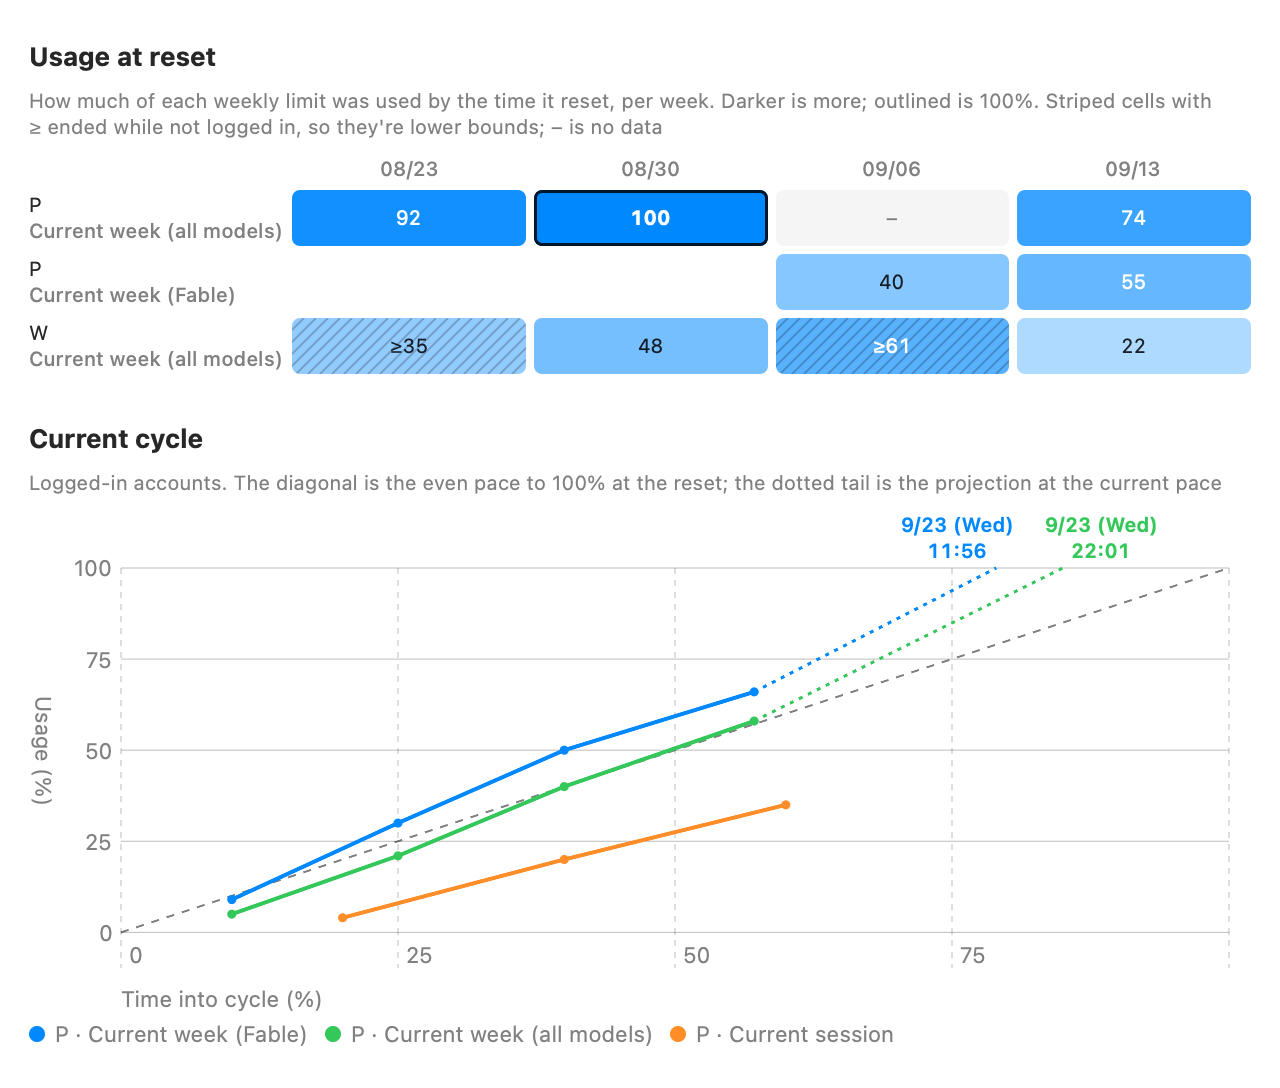
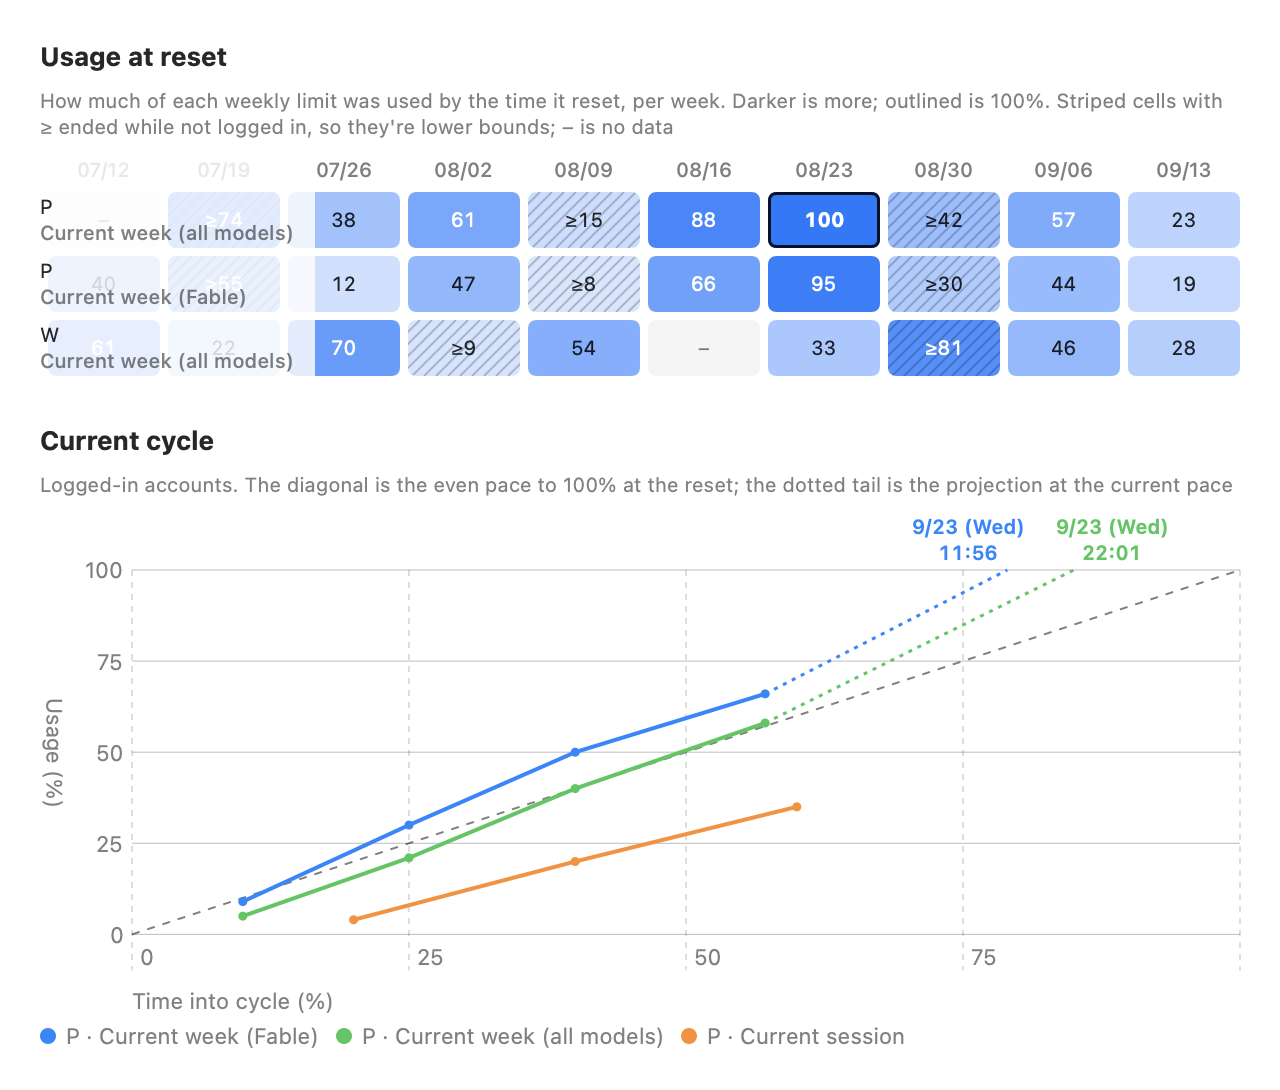
fix: Analytics のヒートマップを横スクロールにして窓幅で崩れないようにする
ヒートマップの Grid は週の列が増えると窓より広くなり、外側の VStack ごと中央寄せ
されて見出しもチャートも両端が欠けていた（5 週で最小幅 520 が、8 週で既定の 640 が
溢れる。Grid は見出し行の Text と fixedSize のラベル列があると列を約 62pt 未満に
縮めない）。

- セルを幅 56pt の固定にして ScrollView(.horizontal) に入れ、直近 8 週の上限を外す
- 行ラベルは safeAreaInset(edge: .leading) で左端に乗せ、背景はウィンドウ色の 82%。
  セルがラベルの下を透けて流れ、スクロールバーはセルの下だけに出る
- 開いたとき（と週が増えたとき）に ScrollViewReader で最新の週へ寄せる
- AnalyticsRenderTests は ImageRenderer が ScrollView の中身を描かないので
  NSHostingView のスナップショットに変更。合成データを 12 週にし、最小幅 520 でも描く
- README の Analytics 画像を作り直し、CLAUDE.md を更新

🤖 Generated with [Claude Code](https://claude.com/claude-code)

diff --git a/Sources/Quotaback/AnalyticsView.swift b/Sources/Quotaback/AnalyticsView.swift
@@ -100,44 +100,64 @@ struct AnalyticsCharts: View {
 
     // MARK: 1
 
+    /// All weeks, in fixed-width cells that scroll sideways. The row labels sit over the leading edge as a safe-area
+    /// inset, so the cells slide under them and the scroller only spans the cells. Opens at the newest week
     @ViewBuilder private var finalUsage: some View {
-        // The most recent weeks only, so that the cells keep a readable width
-        let all = AnalyticsModel.heatmap(input.cycles, now: input.now, titles: input.title)
-        let shown = Set(Set(all.map(\.week)).sorted().suffix(Self.heatmapWeeks))
-        let cells = all.filter { shown.contains($0.week) }
+        let cells = AnalyticsModel.heatmap(input.cycles, now: input.now, titles: input.title)
         if cells.isEmpty {
             empty()
         } else {
             let rows = cells.map(\.row).reduce(into: [String]()) { if !$0.contains($1) { $0.append($1) } }
             let weeks = Set(cells.map(\.week)).sorted()
             let byID = Dictionary(cells.map { ($0.id, $0) }, uniquingKeysWith: { $1 })
-            Grid(horizontalSpacing: 4, verticalSpacing: 4) {
-                GridRow {
-                    Color.clear.gridCellUnsizedAxes([.horizontal, .vertical])
-                    ForEach(weeks, id: \.self) { w in
-                        Text(Self.shortDay(w)).font(.caption2).foregroundStyle(.secondary)
-                    }
-                }
-                ForEach(rows, id: \.self) { row in
-                    GridRow {
-                        let first = cells.first { $0.row == row }
-                        VStack(alignment: .leading, spacing: 0) {
-                            Text(first?.account ?? row).font(.caption)
-                            Text(first?.window ?? "").font(.caption2).foregroundStyle(.secondary)
+            ScrollViewReader { proxy in
+                ScrollView(.horizontal) {
+                    Grid(horizontalSpacing: HeatLayout.gap, verticalSpacing: HeatLayout.gap) {
+                        GridRow {
+                            ForEach(weeks, id: \.self) { w in
+                                Text(Self.shortDay(w)).font(.caption2).foregroundStyle(.secondary)
+                                    .frame(width: HeatLayout.cellWidth, height: HeatLayout.headerHeight)
+                                    .id(w)
+                            }
                         }
-                        .lineLimit(1)
-                        .fixedSize()
-                        .gridColumnAlignment(.leading)
-                        ForEach(weeks, id: \.self) { w in
-                            HeatCellView(cell: byID["\(row) \(w.timeIntervalSince1970)"])
+                        ForEach(rows, id: \.self) { row in
+                            GridRow {
+                                ForEach(weeks, id: \.self) { w in
+                                    HeatCellView(cell: byID["\(row) \(w.timeIntervalSince1970)"])
+                                }
+                            }
                         }
                     }
                 }
+                .safeAreaInset(edge: .leading, spacing: 0) {
+                    VStack(alignment: .leading, spacing: HeatLayout.gap) {
+                        Color.clear.frame(width: 1, height: HeatLayout.headerHeight)
+                        ForEach(rows, id: \.self) { row in
+                            let first = cells.first { $0.row == row }
+                            VStack(alignment: .leading, spacing: 0) {
+                                Text(first?.account ?? row).font(.caption)
+                                Text(first?.window ?? "").font(.caption2).foregroundStyle(.secondary)
+                            }
+                            .lineLimit(1)
+                            .fixedSize()
+                            .frame(height: HeatLayout.rowHeight)
+                        }
+                    }
+                    .padding(.trailing, 10)
+                    // Translucent, so that the cells scrolled under the labels still show through
+                    .background(Color(nsColor: .windowBackgroundColor).opacity(HeatLayout.labelOpacity))
+                }
+                .onAppear { Self.scrollToNewest(proxy, weeks.last) }
+                .onChange(of: weeks.count) { _ in Self.scrollToNewest(proxy, weeks.last) }
             }
         }
     }
 
-    private static let heatmapWeeks = 8
+    private static func scrollToNewest(_ proxy: ScrollViewProxy, _ week: Date?) {
+        guard let week else { return }
+        // The layout isn't settled yet when onAppear fires, so wait a turn
+        Task { @MainActor in proxy.scrollTo(week, anchor: .trailing) }
+    }
 
     private static func shortDay(_ d: Date) -> String {
         d.formatted(Date.FormatStyle(date: .omitted, time: .omitted).month(.defaultDigits).day().locale(L10n.locale))
@@ -225,6 +245,15 @@ struct AnalyticsCharts: View {
 
 }
 
+/// The heatmap's fixed geometry. The label column and the grid share the row heights so that they line up
+private enum HeatLayout {
+    static let cellWidth: CGFloat = 56
+    static let rowHeight: CGFloat = 28
+    static let headerHeight: CGFloat = 14
+    static let gap: CGFloat = 4
+    static let labelOpacity = 0.82
+}
+
 /// One week of one window: darker for more of the limit used, outlined at 100%, striped when it's a lower bound,
 /// faint and empty when there's no data (a week before the window existed has no cell at all)
 private struct HeatCellView: View {
@@ -248,7 +277,7 @@ private struct HeatCellView: View {
                 }
             }
         }
-        .frame(maxWidth: .infinity, minHeight: 28)
+        .frame(width: HeatLayout.cellWidth, height: HeatLayout.rowHeight)
     }
 }
 

diff --git a/Tests/QuotabackTests/AnalyticsRenderTests.swift b/Tests/QuotabackTests/AnalyticsRenderTests.swift
@@ -23,14 +23,20 @@ final class AnalyticsRenderTests: XCTestCase {
                          finalPercent: v, peakPercent: v, observations: 5)
         }
         let shift: TimeInterval = 6 * hour
-        let r: [Date] = (1...4).map { reset - Double($0) * week }   // r[0] = last week, r[3] = four weeks ago
+        // Twelve closed weeks, so that the heatmap is wider than the window and scrolls. nil = never observed that week;
+        // a gap of days = ended while not logged in (a lower bound)
+        let pAll: [Double?] = [92, 100, nil, 74, 38, 61, 15, 88, 100, 42, 57, 23]
+        let wAll: [Double?] = [35, 48, 61, 22, 70, 9, 54, nil, 33, 81, 46, 28]
+        let pFable: [Double?] = [nil, nil, 40, 55, 12, 47, 8, 66, 95, 30, 44, 19]
         var cycles: [CycleSummary] = []
-        cycles += [summary(p, at: r[3], 92), summary(w, at: r[3] + shift, 35, gap: 2 * day)]
-        cycles += [summary(p, at: r[2], 100), summary(w, at: r[2] + shift, 48)]
-        // P has no summary two weeks ago
-        cycles += [summary(w, at: r[1] + shift, 61, gap: 3 * day)]
-        cycles += [summary(p, at: r[0], 74), summary(w, at: r[0] + shift, 22)]
-        cycles += [summary(p, "weekly_scoped/Fable", at: r[1], 40), summary(p, "weekly_scoped/Fable", at: r[0], 55)]
+        for i in 0..<12 {
+            let r = reset - Double(12 - i) * week   // i = 11 is last week
+            let pGap: TimeInterval = i % 3 == 0 ? 2 * day : 60
+            let wGap: TimeInterval = i % 4 == 1 ? 3 * day : 60
+            if let v = pAll[i] { cycles.append(summary(p, at: r, v, gap: pGap)) }
+            if let v = wAll[i] { cycles.append(summary(w, at: r + shift, v, gap: wGap)) }
+            if let v = pFable[i] { cycles.append(summary(p, "weekly_scoped/Fable", at: r, v, gap: pGap)) }
+        }
         let weekly = WindowObservation(key: "weekly_all", title: "Current week (all models)", percent: 58, resetsAt: reset,
                                        isLimit: true, detail: nil, cadence: .fixed(week))
         let session = WindowObservation(key: "session", title: "Current session", percent: 35, resetsAt: t0 + 2 * hour,
@@ -59,19 +65,29 @@ final class AnalyticsRenderTests: XCTestCase {
         return AnalyticsInput(cycles: cycles, titles: [p: "P", w: "W"], live: live, now: t0)
     }
 
-    func render(_ name: String, language: String?, scheme: ColorScheme) throws {
+    /// Draws through an `NSHostingView` in an offscreen window, not `ImageRenderer`: the latter leaves the
+    /// heatmap's `ScrollView` blank. `publish` false keeps the image out of `$QUOTABACK_RENDER_DIR` (not a README image)
+    func render(_ name: String, language: String?, scheme: ColorScheme, width: CGFloat = 640, publish: Bool = true) throws {
         L10n.apply(language)
         let view = AnalyticsCharts(input: sample())
-            .frame(width: 640)
-            .background(scheme == .dark ? Color.black : Color.white)
+            .frame(width: width)
+            .background(Color(nsColor: .windowBackgroundColor))
             .environment(\.colorScheme, scheme)
-        let renderer = ImageRenderer(content: view)
-        renderer.scale = 2
-        let image = try XCTUnwrap(renderer.nsImage)
-        let rep = try XCTUnwrap(image.tiffRepresentation.flatMap(NSBitmapImageRep.init(data:)))
+        let host = NSHostingView(rootView: view)
+        host.appearance = NSAppearance(named: scheme == .dark ? .darkAqua : .aqua)
+        host.frame = NSRect(origin: .zero, size: host.fittingSize)
+        let window = NSWindow(contentRect: host.frame, styleMask: [.borderless], backing: .buffered, defer: false)
+        window.appearance = host.appearance
+        window.contentView = host
+        host.layoutSubtreeIfNeeded()
+        // Lets the heatmap's onAppear scroll to the newest week before the snapshot
+        RunLoop.main.run(until: Date(timeIntervalSinceNow: 0.3))
+        let rep = try XCTUnwrap(host.bitmapImageRepForCachingDisplay(in: host.bounds))
+        host.cacheDisplay(in: host.bounds, to: rep)
         let png = try XCTUnwrap(rep.representation(using: .png, properties: [:]))
-        XCTAssertGreaterThan(image.size.height, 400)
-        let dir = try ProcessInfo.processInfo.environment["QUOTABACK_RENDER_DIR"].map { URL(fileURLWithPath: $0) }
+        XCTAssertEqual(host.bounds.width, width)
+        XCTAssertGreaterThan(host.bounds.height, 400)
+        let dir = try (publish ? ProcessInfo.processInfo.environment["QUOTABACK_RENDER_DIR"].map { URL(fileURLWithPath: $0) } : nil)
             ?? tempDirectory()
         try png.write(to: dir.appendingPathComponent("\(name).png"))
     }
@@ -80,5 +96,10 @@ final class AnalyticsRenderTests: XCTestCase {
         try render("analytics-en-light", language: "en", scheme: .light)
         try render("analytics-ja-light", language: "ja", scheme: .light)
         try render("analytics-en-dark", language: "en", scheme: .dark)
+    }
+
+    /// The window's minimum width. The heatmap scrolls instead of widening the page
+    func testRendersAtMinimumWidth() throws {
+        try render("analytics-en-light-520", language: "en", scheme: .light, width: 520, publish: false)
     }
 }
